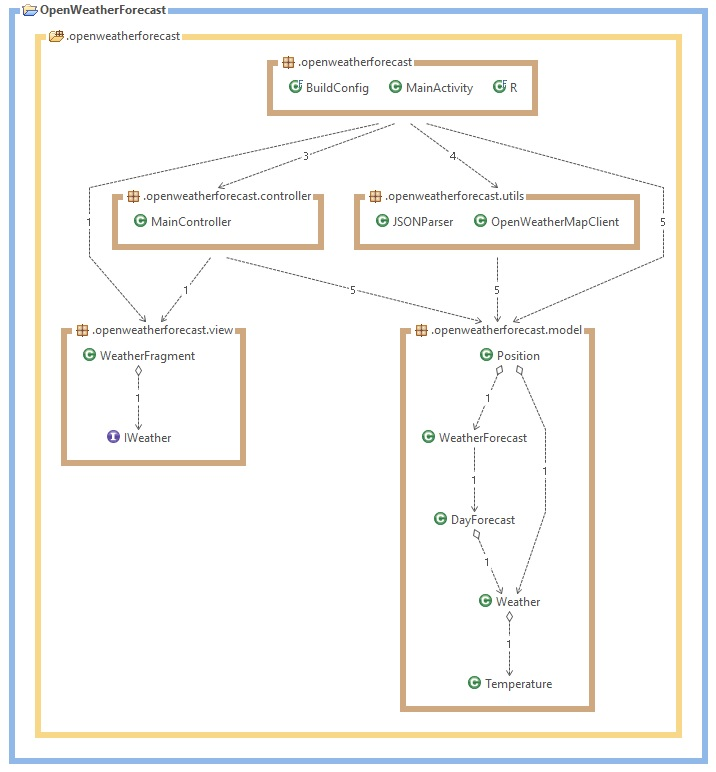
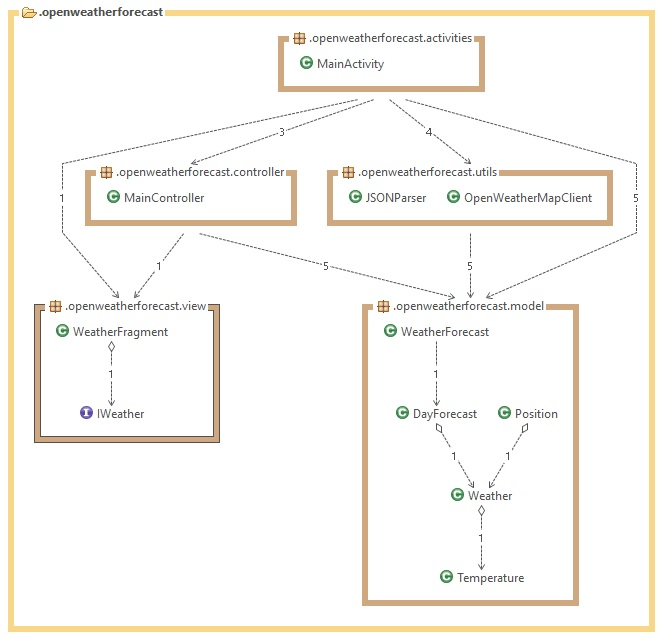
updated dependency pic + updated documentation

diff --git a/app/src/main/java/lasanjin/openweatherforecast/utils/OpenWeatherMapClient.java b/app/src/main/java/lasanjin/openweatherforecast/utils/OpenWeatherMapClient.java
@@ -14,7 +14,7 @@ import java.net.URL;
 public class OpenWeatherMapClient {
     private static final String REQUEST_METHOD = "GET";
 
-    private static final String CURRENT_URL = "http://api.openweathermap.org/data/2.5/weather?";
+    private static final String CURRENT_WEATHER_URL = "http://api.openweathermap.org/data/2.5/weather?";
     private static final String FORECAST_URL = "http://api.openweathermap.org/data/2.5/forecast?";
     private static final String IMAGE_URL = "http://openweathermap.org/img/w/";
     private static final String API_KEY = "&APPID=511a2304bbfdb284ad18a964231b057e";
@@ -47,7 +47,7 @@ public class OpenWeatherMapClient {
 
             //Read bytes and decode them into characters
             InputStreamReader streamReader =
-                    new InputStreamReader(connection.getInputStream()); //ISR deals with strings.
+                    new InputStreamReader(connection.getInputStream());
 
             //Read text from a character-input stream
             BufferedReader reader = new BufferedReader(streamReader);
@@ -75,7 +75,7 @@ public class OpenWeatherMapClient {
     }
 
     private static String selectUrl(boolean forecast) {
-        return forecast ? FORECAST_URL : CURRENT_URL;
+        return forecast ? FORECAST_URL : CURRENT_WEATHER_URL;
     }
 
     public static byte[] getImage(String code) {
@@ -90,7 +90,7 @@ public class OpenWeatherMapClient {
             //Read the next byte of data from the input stream
             InputStream streamReader = connection.getInputStream();
 
-            byte[] buffer = new byte[5120];
+            byte[] buffer = new byte[4096];
 
             //Output stream in which the data is written into a byte array.
             ByteArrayOutputStream baos = new ByteArrayOutputStream();

diff --git a/app/src/main/java/lasanjin/openweatherforecast/activities/MainActivity.java b/app/src/main/java/lasanjin/openweatherforecast/activities/MainActivity.java
@@ -44,7 +44,7 @@ public class MainActivity extends AppCompatActivity {
 
         String[] location = buildLocation();
 
-        CurentWeatherTask weatherTask = new CurentWeatherTask();
+        CurrentWeatherTask weatherTask = new CurrentWeatherTask();
         weatherTask.execute(location);
 
         WeatherForecastTask forecastTask = new WeatherForecastTask();
@@ -59,10 +59,10 @@ public class MainActivity extends AppCompatActivity {
 
     /**
      * AsyncTask enables proper and easy use of the UI thread.
-     * This class allows you to perform background operations
+     * This class allows us to perform background operations
      * and publish results on the UI thread without having to manipulate threads and/or handlers.
      */
-    private class CurentWeatherTask extends AsyncTask<String, Void, Position> {
+    private class CurrentWeatherTask extends AsyncTask<String, Void, Position> {
         @Override
         protected Position doInBackground(String... params) {
             Position position = new Position();

diff --git a/app/src/main/java/lasanjin/openweatherforecast/model/Position.java b/app/src/main/java/lasanjin/openweatherforecast/model/Position.java
@@ -1,18 +1,13 @@
 package lasanjin.openweatherforecast.model;
 
 /**
- * Location contains current weather and weather forecast
+ * Position contains current weather in location and weather forecast
  */
 public class Position {
-    private WeatherForecast weatherForecast;
     private Weather weather;
     private String city;
 
     public Position() {
-    }
-
-    public void setWeatherForecast(WeatherForecast weatherForecast) {
-        this.weatherForecast = weatherForecast;
     }
 
     public void setWeather(Weather weather) {
@@ -21,10 +16,6 @@ public class Position {
 
     public void setCity(String city) {
         this.city = city;
-    }
-
-    public WeatherForecast getWeatherForecast() {
-        return weatherForecast;
     }
 
     public Weather getWeather() {

diff --git a/app/src/main/java/lasanjin/openweatherforecast/controller/MainController.java b/app/src/main/java/lasanjin/openweatherforecast/controller/MainController.java
@@ -13,7 +13,7 @@ import lasanjin.openweatherforecast.model.WeatherForecast;
 import lasanjin.openweatherforecast.view.IWeather;
 
 /**
- * Resposible for controlling data shown the view.
+ * This class is resposible for controlling data shown in view.
  */
 public class MainController implements IWeather {
     private TextView mCurrentWeather;
@@ -32,7 +32,6 @@ public class MainController implements IWeather {
     private ImageView mForecastImage3;
 
     public MainController() {
-
     }
 
     public void initForeCast(WeatherForecast forecast) {

diff --git a/app/src/main/java/lasanjin/openweatherforecast/utils/JSONParser.java b/app/src/main/java/lasanjin/openweatherforecast/utils/JSONParser.java
@@ -11,7 +11,7 @@ import lasanjin.openweatherforecast.model.Weather;
 import lasanjin.openweatherforecast.model.WeatherForecast;
 
 /**
- * This class obtains and saves data from JSON file in the model
+ * This class obtains and saves data from JSON files to the model
  */
 public class JSONParser {
 

diff --git a/app/src/main/java/lasanjin/openweatherforecast/model/WeatherForecast.java b/app/src/main/java/lasanjin/openweatherforecast/model/WeatherForecast.java
@@ -4,7 +4,7 @@ import java.util.ArrayList;
 import java.util.List;
 
 /**
- * Weatherforecast contains days of forecast
+ * WeatherForecast contains days of forecast
  */
 public class WeatherForecast {
     private List<DayForecast> daysForecast;

diff --git a/app/src/main/java/lasanjin/openweatherforecast/model/Weather.java b/app/src/main/java/lasanjin/openweatherforecast/model/Weather.java
@@ -1,7 +1,7 @@
 package lasanjin.openweatherforecast.model;
 
 /**
- * Weather contains temperature
+ * Weather contains temperature, short description and image of weather
  */
 public class Weather {
     private Temperature temperature;

diff --git a/app/src/main/java/lasanjin/openweatherforecast/model/DayForecast.java b/app/src/main/java/lasanjin/openweatherforecast/model/DayForecast.java
@@ -1,7 +1,7 @@
 package lasanjin.openweatherforecast.model;
 
 /**
- * Day (or date) contains weather
+ * Day (date) containing weather data
  */
 public class DayForecast {
     private Weather weather;
